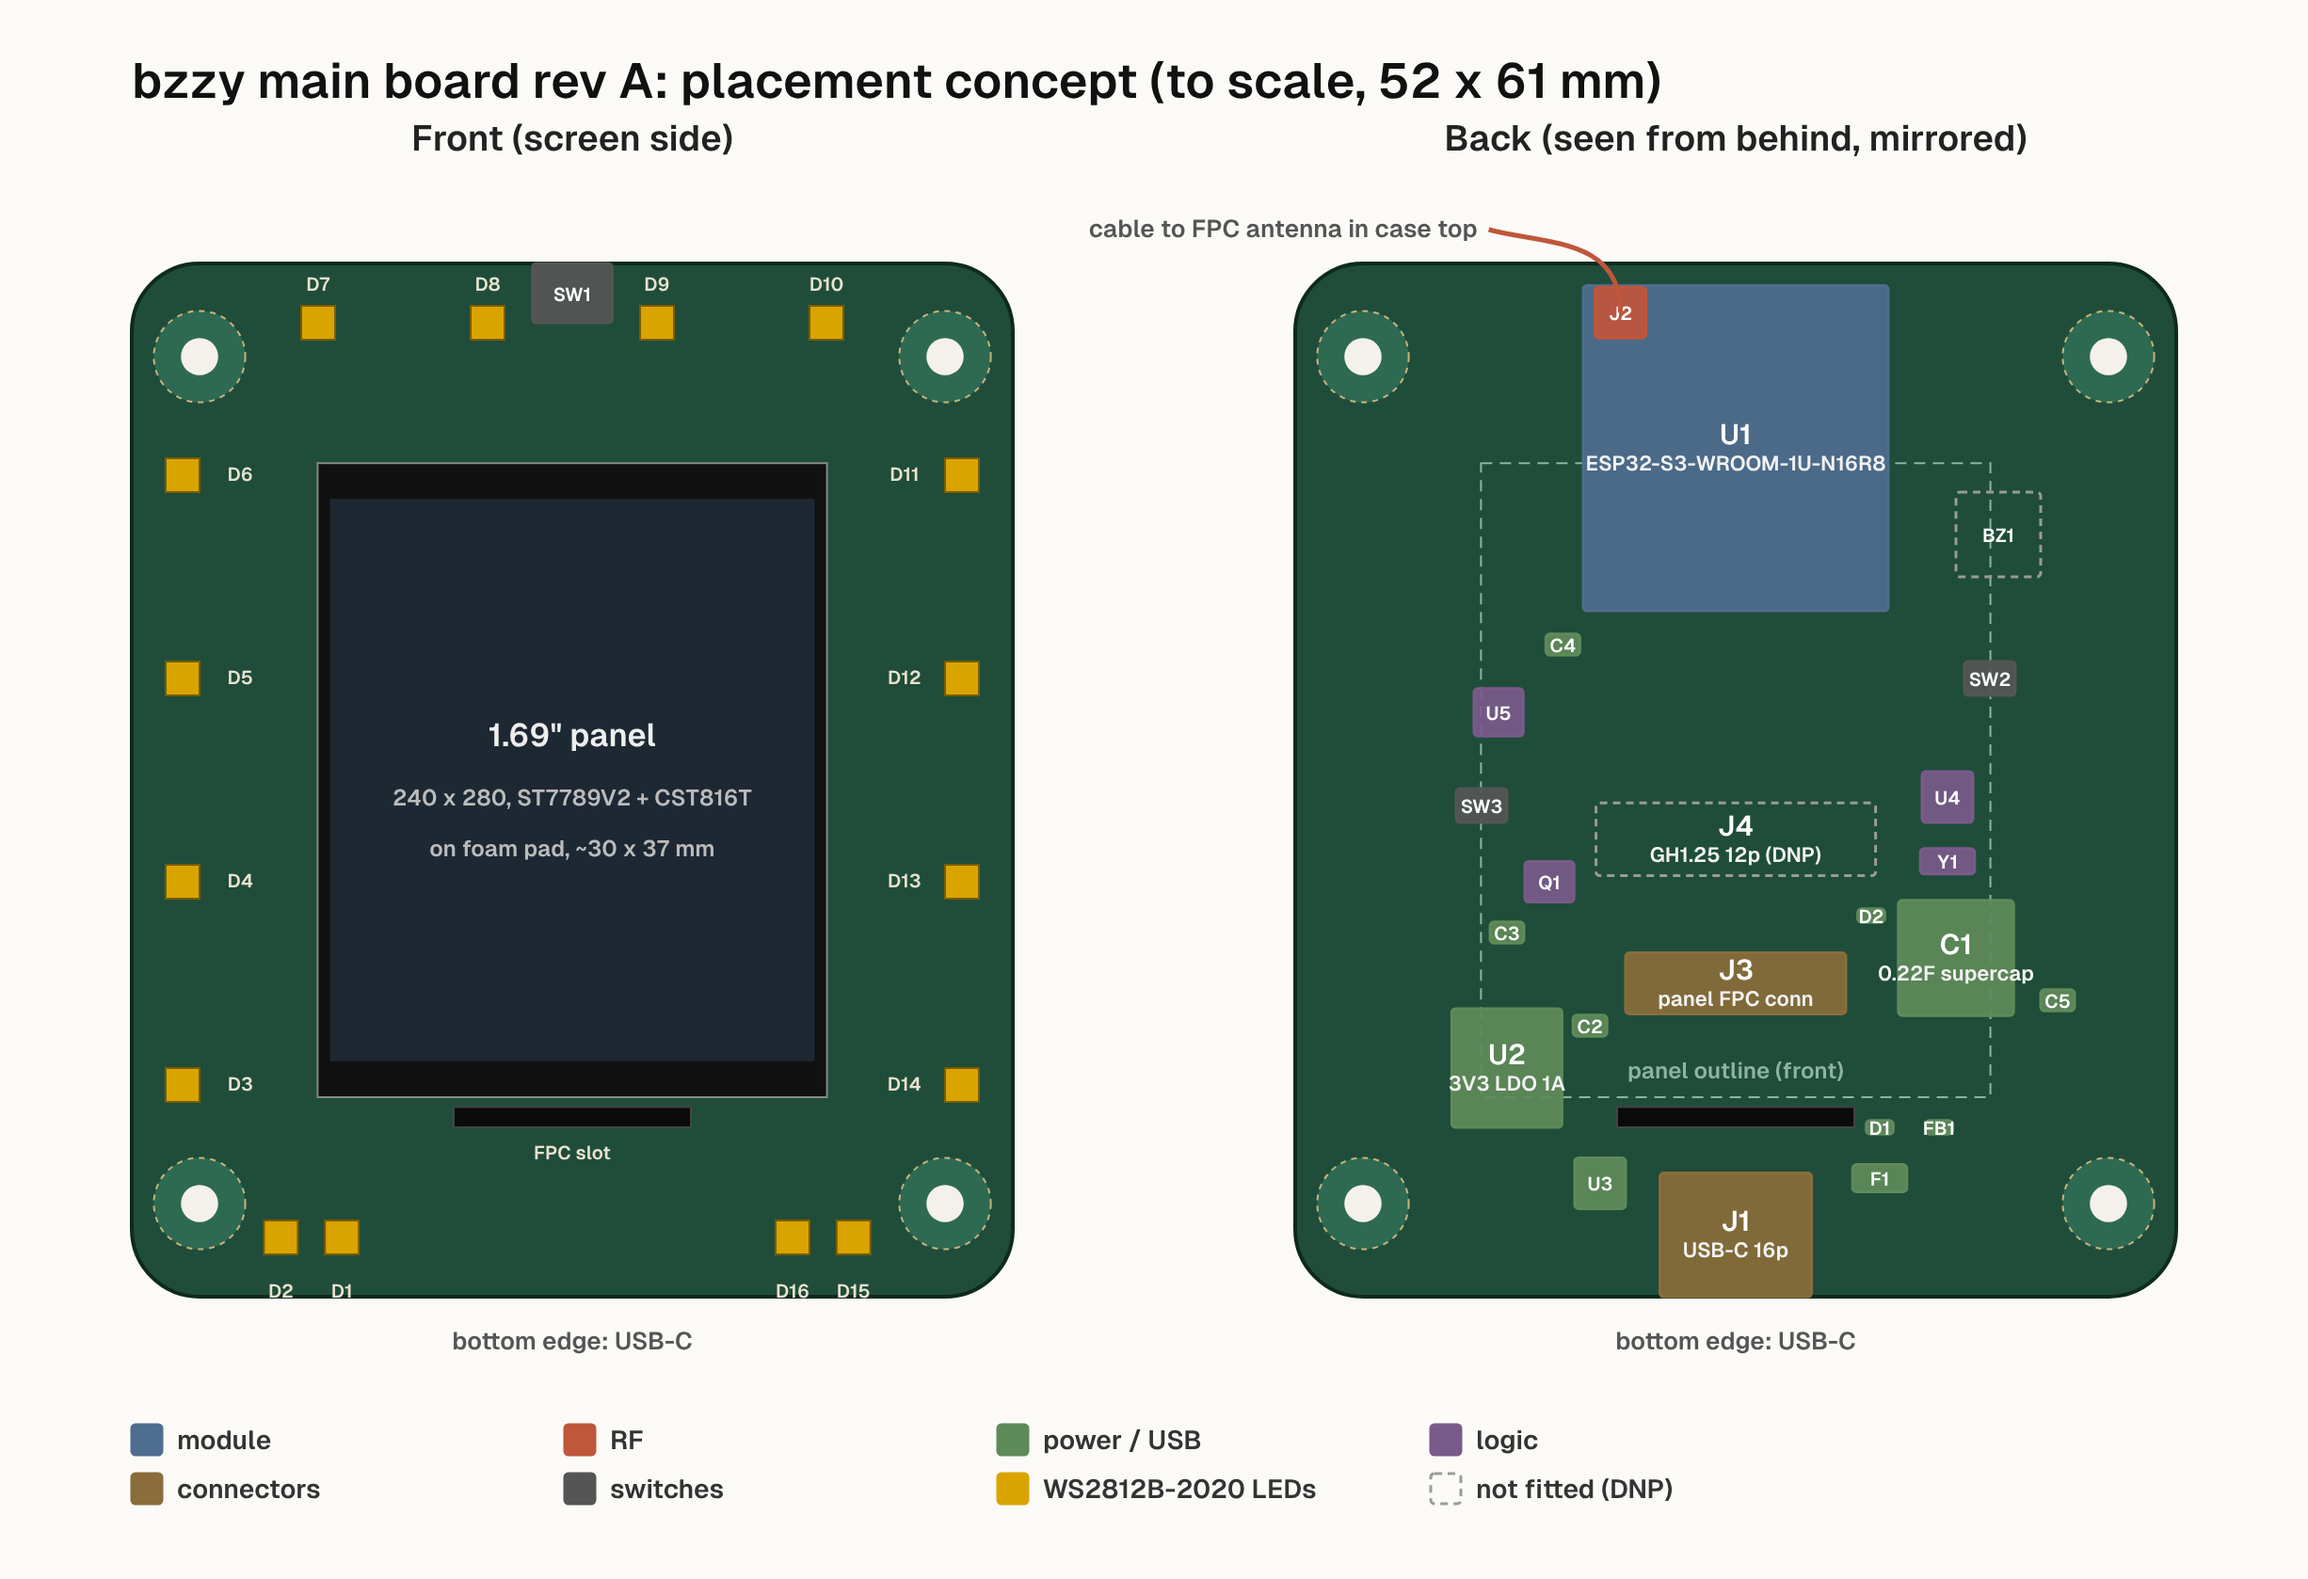
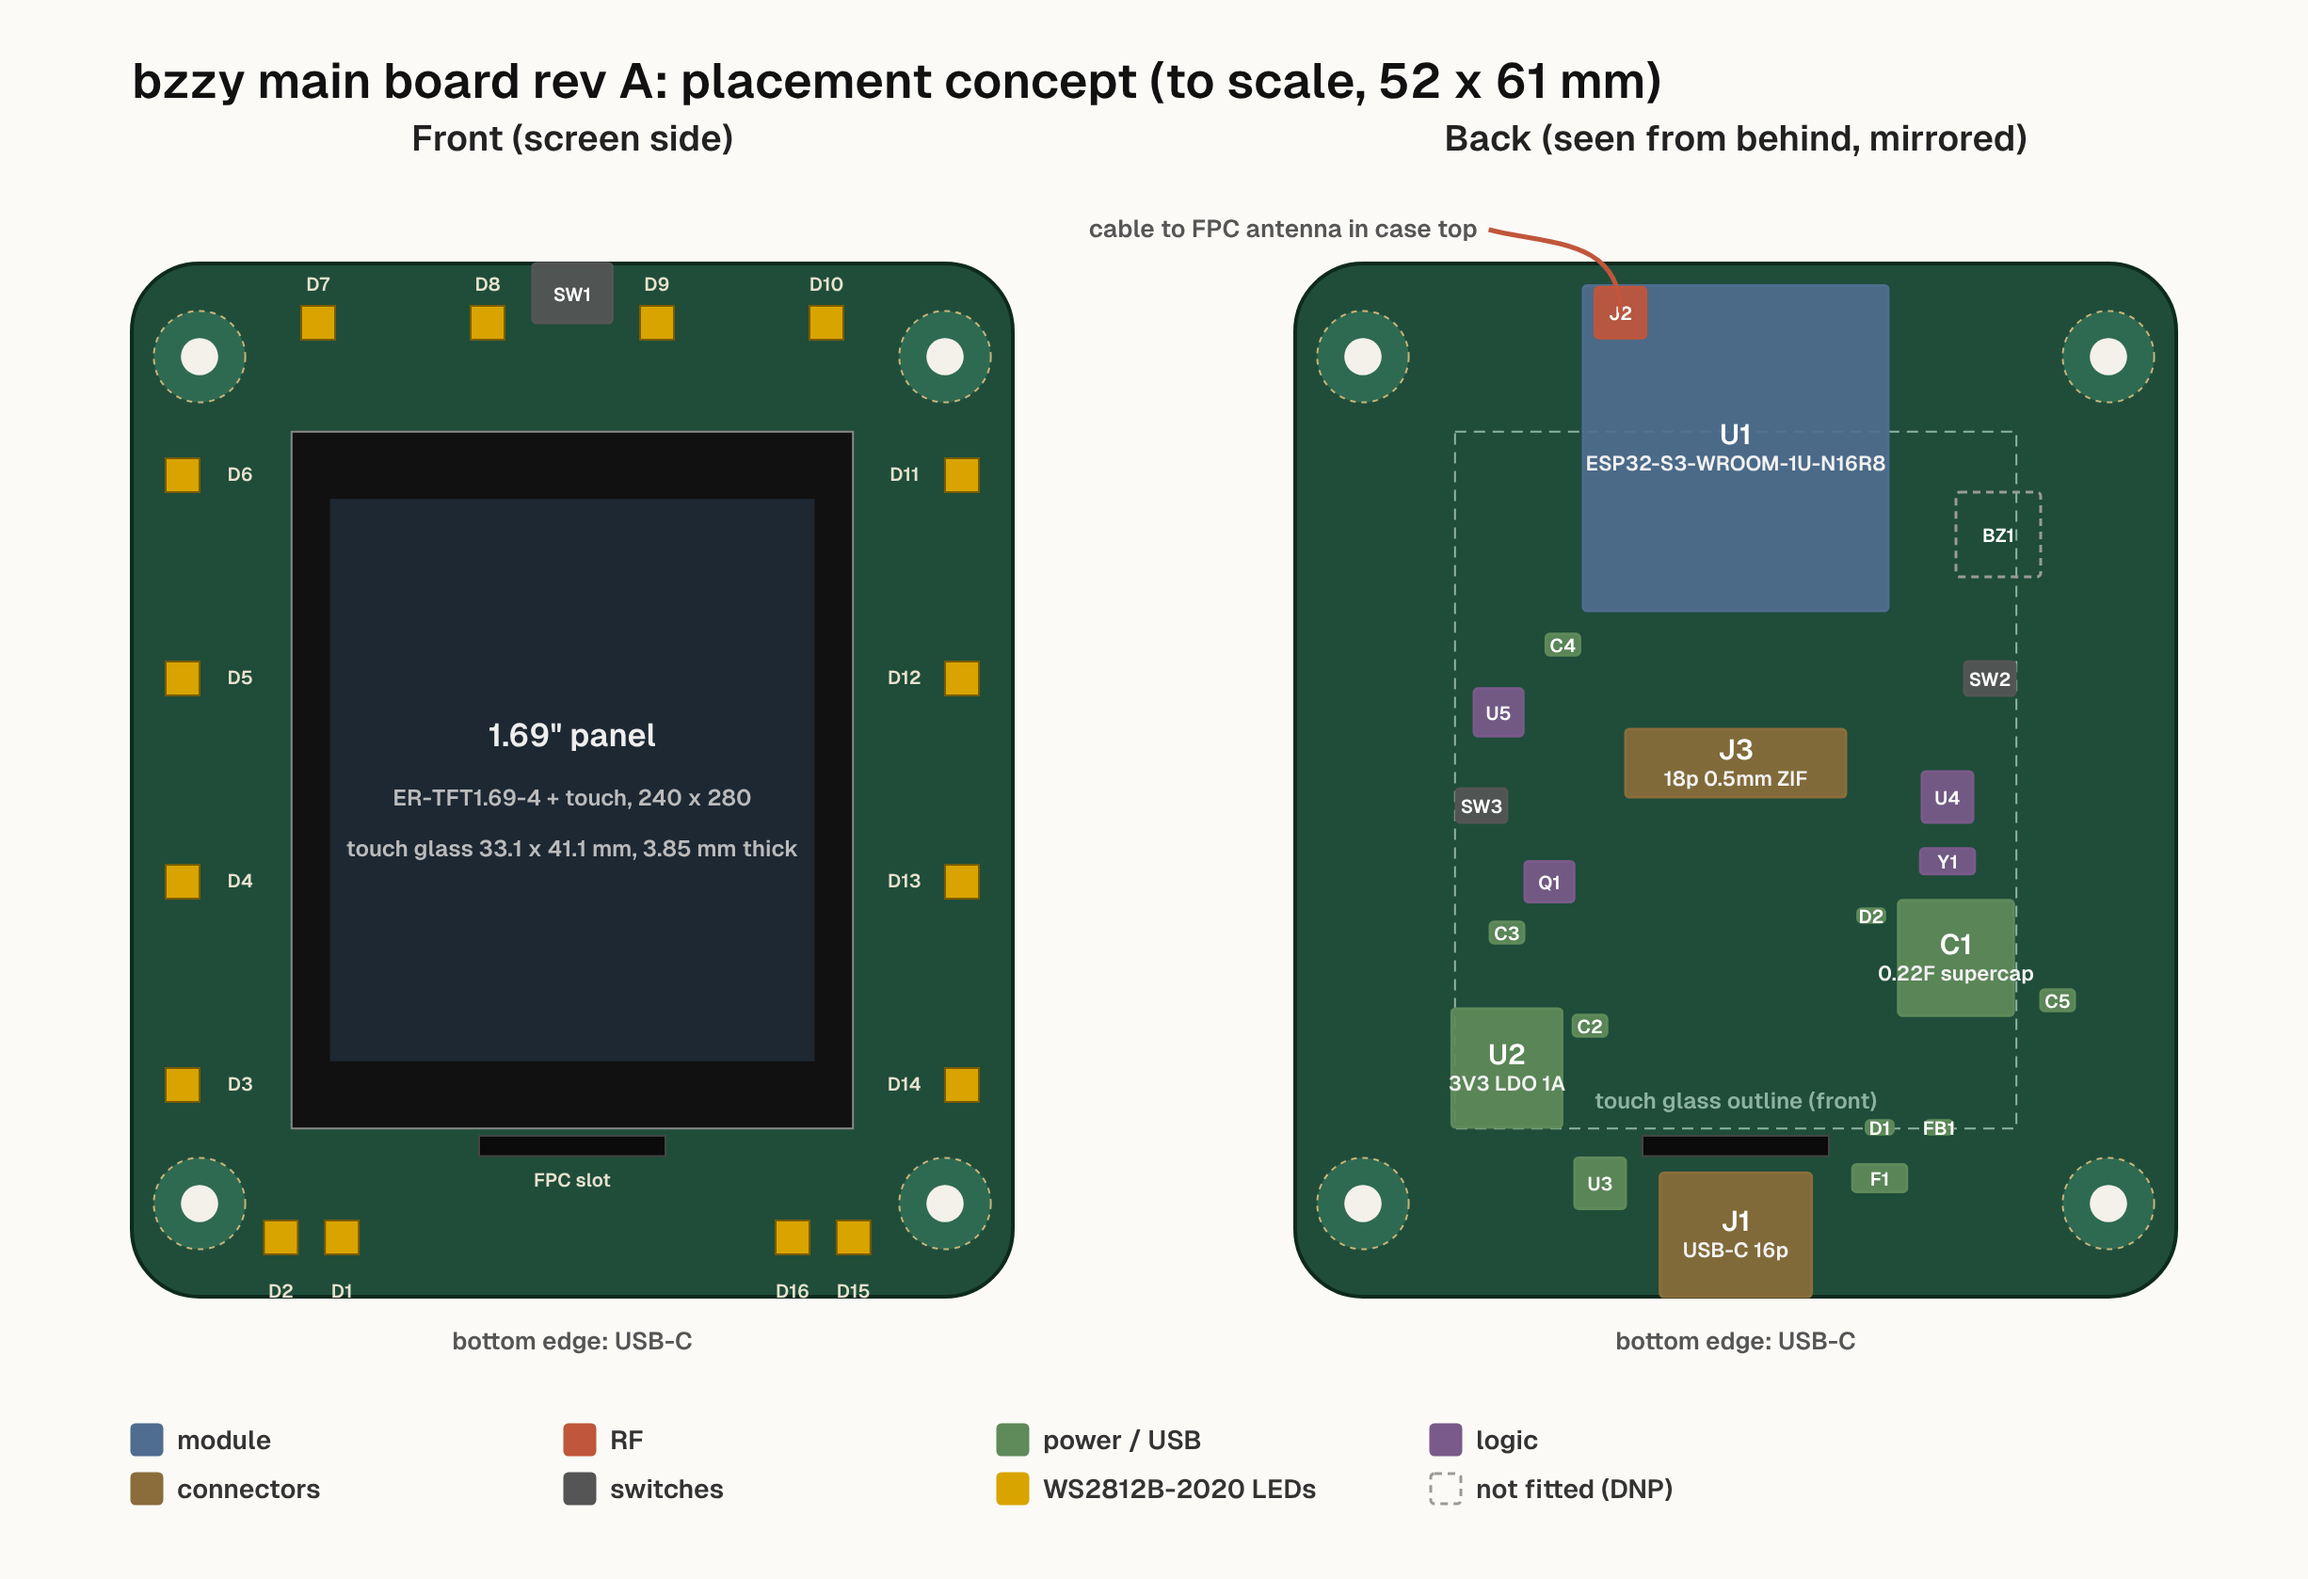
Fill in the ER-TFT1.69-4 panel from its datasheet
Pinout, outline with touch, backlight drive, and the connector moved
behind the screen to suit the 24.5 mm FPC tail.

Claude-Session: https://claude.ai/code/session_01Logv2FcJVK1AYXjKgy3VVp

Changed region(s): [[0.124, 0.2479, 0.3719, 0.7437], [0.6819, 0.5888, 0.8059, 0.7437], [0.6819, 0.4338, 0.8059, 0.5578]]

diff --git a/hardware/main-board/placement.py b/hardware/main-board/placement.py
@@ -17,7 +17,7 @@ HOLE_KEEPOUT_R = 2.7
 LEDS = [(-13.6, 27.0), (-17.2, 27.0), (-23.0, 18.0), (-23.0, 6.0), (-23.0, -6.0), (-23.0, -18.0),
         (-15.0, -27.0), (-5.0, -27.0), (5.0, -27.0), (15.0, -27.0), (23.0, -18.0), (23.0, -6.0),
         (23.0, 6.0), (23.0, 18.0), (16.6, 27.0), (13.0, 27.0)]
-PANEL_W, PANEL_H = 30.07, 37.43   # typical 1.69" 240x280 panel outline (verify with chosen panel)
+PANEL_W, PANEL_H = 33.13, 41.13   # ER-TFT1.69-4 with touch: cover glass outline (LCD itself 30.07 x 37.45)
 WINDOW_W, WINDOW_H = 28.6, 33.2   # case's visible window
 
 # (ref, label, x, y, w, h, side, colour key, note)  x/y = body centre, front-view coordinates
@@ -27,7 +27,7 @@ PARTS = [
     # back
     ("U1", "ESP32-S3-WROOM-1U-N16R8", 0.0, -19.6, 18.0, 19.2, "B", "mcu", "u.FL at top"),
     ("J2", "u.FL", 6.8, -27.6, 3.0, 3.0, "B", "rf", "antenna cable to case top"),
-    ("J3", "panel FPC conn", 0.0, 12.0, 13.0, 3.6, "B", "conn", "tail through slot, folds up"),
+    ("J3", "18p 0.5mm ZIF", 0.0, -1.0, 13.0, 4.0, "B", "conn", "tail through slot, folds up ~21 mm"),
     ("J1", "USB-C 16p", 0.0, 26.85, 8.94, 7.3, "B", "conn", "mid-mount, bottom edge"),
     ("U2", "3V3 LDO 1A", 13.5, 17.0, 6.5, 7.0, "B", "power", "AMS1117-3.3 (SOT-223)"),
     ("U3", "USB ESD", 8.0, 23.8, 3.0, 3.0, "B", "power", "USBLC6-2SC6"),
@@ -42,14 +42,13 @@ PARTS = [
     ("Q1", "BL MOSFET", 11.0, 6.0, 2.9, 2.4, "B", "logic", "SOT-23, backlight PWM"),
     ("SW2", "BOOT", -15.0, -6.0, 3.0, 2.0, "B", "mech", "behind pinhole"),
     ("SW3", "RESET", 15.0, 1.5, 3.0, 2.0, "B", "mech", "behind pinhole"),
-    ("J4", "GH1.25 12p (DNP)", 0.0, 3.5, 16.5, 4.3, "B", "dnp", "Waveshare module fallback"),
     ("BZ1", "buzzer (DNP)", -15.5, -14.5, 5.0, 5.0, "B", "dnp", "for 'knock' later"),
     ("C2", "22u", 8.6, 14.5, 2.0, 1.25, "B", "power", "LDO in"),
     ("C3", "22u", 13.5, 9.0, 2.0, 1.25, "B", "power", "LDO out"),
     ("C4", "10u", 10.2, -8.0, 2.0, 1.25, "B", "power", "module 3V3"),
     ("C5", "10u x2", -19.0, 13.0, 2.0, 1.25, "B", "power", "LED bulk 5 V"),
 ]
-SLOT = (0.0, 19.9, 14.0, 1.2)  # FPC slot below the panel (cx, cy, w, h)
+SLOT = (0.0, 21.6, 11.0, 1.2)  # FPC slot below the panel (cx, cy, w, h)
 LED_SIZE = 2.0
 
 COL = {
@@ -91,15 +90,15 @@ def view(ox, oy, side):
         out.append(rect(0, 0, PANEL_W, PANEL_H, fill="#111", stroke="#888", stroke_width=1))
         out.append(rect(0, 0, WINDOW_W, WINDOW_H, fill="#1d2833", stroke="none"))
         out.append(f'<text x="{X(0):.1f}" y="{Y(-2):.1f}" class="big">1.69" panel</text>')
-        out.append(f'<text x="{X(0):.1f}" y="{Y(1.5):.1f}" class="sub">240 x 280, ST7789V2 + CST816T</text>')
-        out.append(f'<text x="{X(0):.1f}" y="{Y(4.5):.1f}" class="sub">on foam pad, ~30 x 37 mm</text>')
+        out.append(f'<text x="{X(0):.1f}" y="{Y(1.5):.1f}" class="sub">ER-TFT1.69-4 + touch, 240 x 280</text>')
+        out.append(f'<text x="{X(0):.1f}" y="{Y(4.5):.1f}" class="sub">touch glass 33.1 x 41.1 mm, 3.85 mm thick</text>')
     else:
         out.append(rect(0, 0, PANEL_W, PANEL_H, fill="none", stroke="#8fb3a2", stroke_width=1, stroke_dasharray="6 4"))
-        out.append(f'<text x="{X(0):.1f}" y="{Y(17.6):.1f}" class="ghost">panel outline (front)</text>')
+        out.append(f'<text x="{X(0):.1f}" y="{Y(19.4):.1f}" class="ghost">touch glass outline (front)</text>')
     # FPC slot (through board, both sides)
     out.append(rect(*SLOT, fill="#0b0b0b", stroke="#444"))
     if side == "F":
-        out.append(f'<text x="{X(0):.1f}" y="{Y(22.4):.1f}" class="tiny">FPC slot</text>')
+        out.append(f'<text x="{X(0):.1f}" y="{Y(24.0):.1f}" class="tiny">FPC slot</text>')
     # LEDs (front only)
     if side == "F":
         for i, (lx, ly) in enumerate(LEDS, 1):

diff --git a/docs/hardware/main-board.md b/docs/hardware/main-board.md
@@ -121,15 +121,30 @@ Two ways to buy it:
 
 ### 5.1 Panel pick (2026-11-19)
 
-**Candidate: East Rising / BuyDisplay ER-TFT1.69-4** (1.69" 240 × 280 IPS, ST7789 family, CST816 capacitive touch, 4-wire SPI + I2C).
+**East Rising / BuyDisplay ER-TFT1.69-4**, with its capacitive touch panel **ER-TPC1.69-4** (separate order number; order the panel with touch fitted). From the datasheet (rev 1.0, 2025-08-21, provided by Adam):
 
-- Sold in single units and small quantities with a published datasheet, mechanical drawing, and ST7789VW and CST816 datasheets on the product page. That's the main reason over anonymous AliExpress panels.
-- Listed at about **US$3.74 each** (quote above 500). Whether the touch layer is included in that price or an option isn't clear from the listing **(verify at checkout)**.
-- **18-pin, 0.5 mm pitch FPC** for a ZIF connector, per the listing's document list **(verify pinout in the datasheet)**. J3 in the placement becomes an 18-pin 0.5 mm ZIF connector.
-- The sibling non-touch panel (ER-TFT1.69-3) has a 30.07 × 37.43 × 1.6 mm outline, which matches the placement drawing. Confirm the -4's outline (touch adds thickness).
-- Same resolution and driver family as the Waveshare board, so firmware, the app's live preview and every GIF stay as they are.
+| | |
+|---|---|
+| Display | 1.69" IPS, 240 × 280, ST7789 (ST7789VW per the product page), 4-wire SPI, 500 cd/m², 1000:1 |
+| Outline, LCD only | 30.07 × 37.45 × 1.6 mm (FPC folded); active area 27.97 × 32.63 mm |
+| **Outline with touch** | **33.13 × 41.13 mm cover glass, 3.85 mm thick** |
+| FPC | **one tail, 18 pins at 0.5 mm pitch**, 8.5 mm wide, **24.54 mm** from the glass edge to the tail end, leaving the LCD's short (bottom) edge. The touch flex joins it, so one connector carries display and touch |
+| Power | VCC 2.5 to 3.3 V (logic **and backlight anode**), IOVCC 1.8 to 3.3 V: both from the 3.3 V rail |
+| Backlight | 3 white LEDs in parallel, common anode on VCC, cathode on pin 2 (K). Vf 3.0 V typ / 3.2 V max, 45 mA typ, 60 mA max |
+| Touch | CST816-family controller on the touch flex: I2C SCL/SDA, RST (active low), INT, own VCC |
 
-Before layout: order 3 to 5, check the CST816 variant (S, T or D; the I2C address and gestures differ slightly), and caliper them.
+Pinout (pin 1 to 18): GND, K, VCC, IOVCC, GND, GND, DC, CS, SCL, SDA, RESET, GND, CTP_SCL, CTP_SDA, CTP_RST, CTP_INT, CTP_VCC, GND.
+
+What that means for the board:
+
+- **J3 = 18-pin 0.5 mm ZIF/FPC connector.** Contact side (top or bottom) depends on how the tail folds; settle it on the samples.
+- **The long tail is by design.** It's meant to fold back behind the screen. With the panel on the front, the tail goes through a slot just below the screen, then runs about 21 mm up the back, so **J3 sits behind the middle of the screen** (updated in the placement drawing).
+- **Backlight:** N-MOSFET low-side switch on K with a ~3.3 to 4.7 Ω series resistor, PWM-dimmed from GPIO15. The 3.3 V rail only leaves 0.1 to 0.3 V of headroom over the LED Vf, so full brightness is roughly the typical 45 mA rather than the 60 mA maximum. That's plenty indoors.
+- **Thickness:** 3.85 mm with touch (the Waveshare's glass sat at 3.6 mm). The case's `GLASS_Z` changes slightly.
+- The cover glass is 33.1 × 41.1 mm, inside the ring of LEDs with 5 mm or more to spare on each side.
+- **J4 (Waveshare-module fallback) is dropped**, now that the panel has a full datasheet.
+
+Before layout: order samples and bench-test one on Adam's Feather through an 18-pin 0.5 mm FPC breakout, to confirm the pinout, the touch chip variant (CST816S, T or D) and the display offsets.
 
 Smaller screens considered (Adam is open to a smaller device):
 
@@ -256,7 +271,7 @@ Drawn by `hardware/main-board/placement.py` (edit the script, then run it to reg
 | SW1 | Alps SKRTLAE010 | front | top edge centre, plunger up |
 | U1 | ESP32-S3-WROOM-1U-N16R8 | back | top centre, behind the panel's top half |
 | J2 | u.FL (on the module) | back | top of the module, short cable up to the case-top antenna |
-| J3 | panel FPC connector | back | panel tail goes through a slot just below the panel and folds up into it |
+| J3 | 18-pin 0.5 mm FPC/ZIF | back | behind the screen's middle; the panel tail goes through a slot below the screen and runs ~21 mm up the back |
 | J1 | USB-C 16-pin, mid-mount | back | bottom edge centre, same place as the Waveshare socket |
 | U3, D1, F1, FB1 | ESD, TVS, polyfuse, ferrite (DNP) | back | next to J1, before anything else |
 | U2, C2, C3 | 3.3 V LDO 1 A + 22 µF in/out | back | bottom left (seen from behind), between USB and the module |
@@ -265,7 +280,6 @@ Drawn by `hardware/main-board/placement.py` (edit the script, then run it to reg
 | Q1 | backlight MOSFET | back | near J3 |
 | U4, Y1, C1, D2 | PCF85063, 32.768 kHz crystal, 0.22 F supercap, Schottky | back | lower right (seen from behind) |
 | SW2, SW3 | BOOT, RESET | back | either side, behind pinholes in the back plate |
-| J4 | GH1.25 12-pin (DNP) | back | fallback for Waveshare's touch module |
 | BZ1 | buzzer (DNP) | back | upper right (seen from behind), for "knock" later |
 | C5 | 2 × 10 µF LED bulk | back | plus 100 nF per LED on the front, as rev C |
 
@@ -313,7 +327,7 @@ Estimates in **US dollars**, per board, at 25 units. Part prices are LCSC/AliExp
 |---|---|---|---|
 | ESP32-S3-WROOM-1U-N16R8 module | 1 | 5 to 7 | 6.00 |
 | 2.4 GHz FPC monopole antenna, u.FL, ≤ 2.33 dBi | 1 | 0.80 to 2.50 | 1.50 |
-| 1.69" ST7789V2 + CST816T panel (bare, FPC) | 1 | 5 to 10 | 8.00 |
+| ER-TFT1.69-4 + ER-TPC1.69-4 touch | 1 | 4 to 9 | 7.00 |
 | WS2812B-2020 LED | 16 | 0.08 to 0.15 | 1.80 |
 | 74AHCT1G125 shifter | 1 | 0.10 | 0.10 |
 | USB-C 16-pin receptacle | 1 | 0.15 to 0.40 | 0.30 |
@@ -322,7 +336,7 @@ Estimates in **US dollars**, per board, at 25 units. Part prices are LCSC/AliExp
 | 3.3 V LDO, 1 A | 1 | 0.10 to 0.30 | 0.20 |
 | PCF85063 + crystal | 1 + 1 | 0.30 + 0.15 | 0.45 |
 | 0.22 F supercap + diode | 1 + 1 | 0.40 to 0.80 | 0.70 |
-| FPC connector for the panel | 1 | 0.10 to 0.30 | 0.20 |
+| 18-pin 0.5 mm FPC connector (J3) | 1 | 0.10 to 0.30 | 0.20 |
 | Backlight MOSFET | 1 | 0.03 | 0.03 |
 | Alps SKRT top button | 1 | 0.30 | 0.30 |
 | BOOT + RESET switches | 2 | 0.05 | 0.10 |
@@ -423,7 +437,7 @@ Defaults are what this spec assumes until Adam says otherwise.
 | Q8 | Antenna position in the case: inside the top wall, or the back plate? | Top wall; compare range on prototypes |
 | Q9 | Screen sourcing: bare panel from a panel maker, or Waveshare's touch module? | Bare panel, Waveshare footprint as fallback |
 | Q10 | Module: N16R8 (drop-in firmware) over the slightly cheaper MINI-1-N8? | N16R8 |
-| Q11 | Device size: keep 52 × 61 mm, or shrink to about 40 × 47 mm with a thinner glow border (7.3)? | Prototype at 52 × 61, decide after |
+| Q11 | Device size: keep 52 × 61 mm, or shrink to about 40 × 47 mm with a thinner glow border (7.3)? | **Decided 2026-11-19: prototype at 52 × 61 mm**, decide final size after |
 | Q12 | Screen: ER-TFT1.69-4 (same 1.69" 240 × 280), or a smaller panel (5.1)? | ER-TFT1.69-4 |
 
 ## 15. Sources
